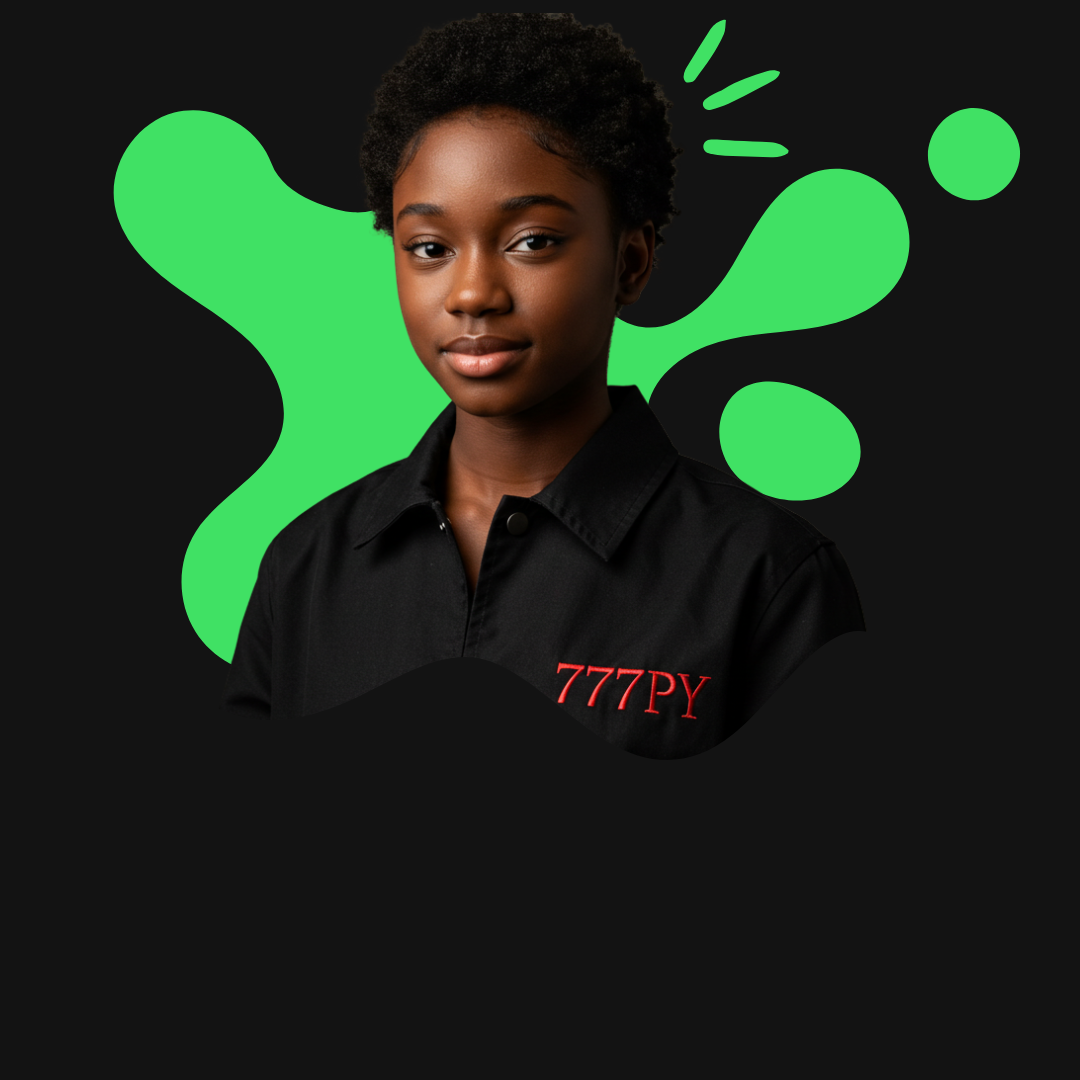
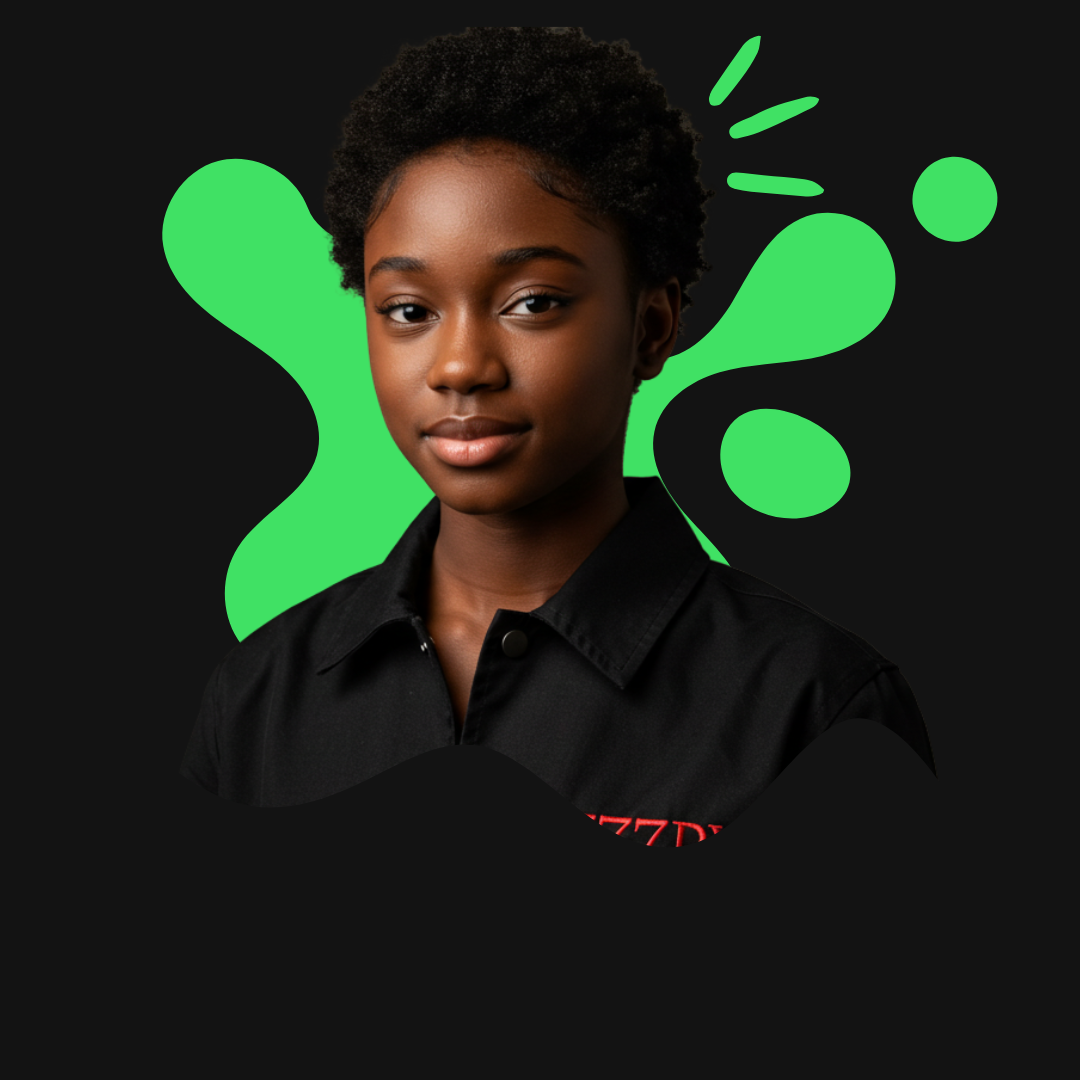
Alteração nas imagens dos fundadores

diff --git a/assets/css/output.css b/assets/css/output.css
@@ -210,8 +210,14 @@
   .right-0 {
     right: calc(var(--spacing) * 0);
   }
+  .left-0 {
+    left: calc(var(--spacing) * 0);
+  }
   .z-1 {
     z-index: 1;
+  }
+  .z-10 {
+    z-index: 10;
   }
   .z-\[2\] {
     z-index: 2;
@@ -227,6 +233,9 @@
   }
   .my-8 {
     margin-block: calc(var(--spacing) * 8);
+  }
+  .mt-2 {
+    margin-top: calc(var(--spacing) * 2);
   }
   .mt-2\.5 {
     margin-top: calc(var(--spacing) * 2.5);
@@ -264,6 +273,9 @@
   .hidden {
     display: none;
   }
+  .table {
+    display: table;
+  }
   .h-16 {
     height: calc(var(--spacing) * 16);
   }
@@ -300,8 +312,14 @@
   .w-screen {
     width: 100vw;
   }
+  .border-collapse {
+    border-collapse: collapse;
+  }
   .rotate-x-180 {
     --tw-rotate-x: rotateX(180deg);
+    transform: var(--tw-rotate-x,) var(--tw-rotate-y,) var(--tw-rotate-z,) var(--tw-skew-x,) var(--tw-skew-y,);
+  }
+  .transform {
     transform: var(--tw-rotate-x,) var(--tw-rotate-y,) var(--tw-rotate-z,) var(--tw-skew-x,) var(--tw-skew-y,);
   }
   .animate-bounce {
@@ -312,6 +330,27 @@
   }
   .resize {
     resize: both;
+  }
+  .snap-y {
+    scroll-snap-type: y var(--tw-scroll-snap-strictness);
+  }
+  .snap-mandatory {
+    --tw-scroll-snap-strictness: mandatory;
+  }
+  .scroll-pt-0 {
+    scroll-padding-top: calc(var(--spacing) * 0);
+  }
+  .scroll-pt-0\.5 {
+    scroll-padding-top: calc(var(--spacing) * 0.5);
+  }
+  .scroll-pt-12 {
+    scroll-padding-top: calc(var(--spacing) * 12);
+  }
+  .scroll-pt-20 {
+    scroll-padding-top: calc(var(--spacing) * 20);
+  }
+  .scroll-pt-24 {
+    scroll-padding-top: calc(var(--spacing) * 24);
   }
   .flex-col {
     flex-direction: column;
@@ -331,14 +370,23 @@
   .justify-center {
     justify-content: center;
   }
+  .gap-0 {
+    gap: calc(var(--spacing) * 0);
+  }
   .gap-0\.5 {
     gap: calc(var(--spacing) * 0.5);
+  }
+  .gap-1 {
+    gap: calc(var(--spacing) * 1);
   }
   .gap-1\.5 {
     gap: calc(var(--spacing) * 1.5);
   }
   .gap-2 {
     gap: calc(var(--spacing) * 2);
+  }
+  .gap-3 {
+    gap: calc(var(--spacing) * 3);
   }
   .gap-3\.5 {
     gap: calc(var(--spacing) * 3.5);
@@ -352,11 +400,24 @@
   .overflow-hidden {
     overflow: hidden;
   }
+  .overflow-x-scroll {
+    overflow-x: scroll;
+  }
+  .overflow-y-auto {
+    overflow-y: auto;
+  }
+  .overflow-y-scroll {
+    overflow-y: scroll;
+  }
   .scroll-smooth {
     scroll-behavior: smooth;
   }
   .rounded-full {
     border-radius: calc(infinity * 1px);
+  }
+  .border {
+    border-style: var(--tw-border-style);
+    border-width: 1px;
   }
   .border-2 {
     border-style: var(--tw-border-style);
@@ -376,6 +437,9 @@
   }
   .bg-black {
     background-color: var(--color-black);
+  }
+  .p-1 {
+    padding: calc(var(--spacing) * 1);
   }
   .p-1\.5 {
     padding: calc(var(--spacing) * 1.5);
@@ -398,6 +462,9 @@
   .py-6 {
     padding-block: calc(var(--spacing) * 6);
   }
+  .pt-1 {
+    padding-top: calc(var(--spacing) * 1);
+  }
   .pt-2 {
     padding-top: calc(var(--spacing) * 2);
   }
@@ -406,6 +473,9 @@
   }
   .pt-9 {
     padding-top: calc(var(--spacing) * 9);
+  }
+  .pt-16 {
+    padding-top: calc(var(--spacing) * 16);
   }
   .pt-24 {
     padding-top: calc(var(--spacing) * 24);
@@ -476,8 +546,19 @@
   .opacity-75 {
     opacity: 75%;
   }
+  .outline {
+    outline-style: var(--tw-outline-style);
+    outline-width: 1px;
+  }
+  .filter {
+    filter: var(--tw-blur,) var(--tw-brightness,) var(--tw-contrast,) var(--tw-grayscale,) var(--tw-hue-rotate,) var(--tw-invert,) var(--tw-saturate,) var(--tw-sepia,) var(--tw-drop-shadow,);
+  }
   .backdrop-blur-sm {
     --tw-backdrop-blur: blur(var(--blur-sm));
+    -webkit-backdrop-filter: var(--tw-backdrop-blur,) var(--tw-backdrop-brightness,) var(--tw-backdrop-contrast,) var(--tw-backdrop-grayscale,) var(--tw-backdrop-hue-rotate,) var(--tw-backdrop-invert,) var(--tw-backdrop-opacity,) var(--tw-backdrop-saturate,) var(--tw-backdrop-sepia,);
+    backdrop-filter: var(--tw-backdrop-blur,) var(--tw-backdrop-brightness,) var(--tw-backdrop-contrast,) var(--tw-backdrop-grayscale,) var(--tw-backdrop-hue-rotate,) var(--tw-backdrop-invert,) var(--tw-backdrop-opacity,) var(--tw-backdrop-saturate,) var(--tw-backdrop-sepia,);
+  }
+  .backdrop-filter {
     -webkit-backdrop-filter: var(--tw-backdrop-blur,) var(--tw-backdrop-brightness,) var(--tw-backdrop-contrast,) var(--tw-backdrop-grayscale,) var(--tw-backdrop-hue-rotate,) var(--tw-backdrop-invert,) var(--tw-backdrop-opacity,) var(--tw-backdrop-saturate,) var(--tw-backdrop-sepia,);
     backdrop-filter: var(--tw-backdrop-blur,) var(--tw-backdrop-brightness,) var(--tw-backdrop-contrast,) var(--tw-backdrop-grayscale,) var(--tw-backdrop-hue-rotate,) var(--tw-backdrop-invert,) var(--tw-backdrop-opacity,) var(--tw-backdrop-saturate,) var(--tw-backdrop-sepia,);
   }
@@ -649,6 +730,11 @@
   .sm\:px-12 {
     @media (width >= 40rem) {
       padding-inline: calc(var(--spacing) * 12);
+    }
+  }
+  .sm\:px-24 {
+    @media (width >= 40rem) {
+      padding-inline: calc(var(--spacing) * 24);
     }
   }
   .sm\:py-8 {
@@ -1648,12 +1734,75 @@ body::-webkit-scrollbar-track {
   syntax: "*";
   inherits: false;
 }
+@property --tw-scroll-snap-strictness {
+  syntax: "*";
+  inherits: false;
+  initial-value: proximity;
+}
 @property --tw-border-style {
   syntax: "*";
   inherits: false;
   initial-value: solid;
 }
 @property --tw-font-weight {
+  syntax: "*";
+  inherits: false;
+}
+@property --tw-outline-style {
+  syntax: "*";
+  inherits: false;
+  initial-value: solid;
+}
+@property --tw-blur {
+  syntax: "*";
+  inherits: false;
+}
+@property --tw-brightness {
+  syntax: "*";
+  inherits: false;
+}
+@property --tw-contrast {
+  syntax: "*";
+  inherits: false;
+}
+@property --tw-grayscale {
+  syntax: "*";
+  inherits: false;
+}
+@property --tw-hue-rotate {
+  syntax: "*";
+  inherits: false;
+}
+@property --tw-invert {
+  syntax: "*";
+  inherits: false;
+}
+@property --tw-opacity {
+  syntax: "*";
+  inherits: false;
+}
+@property --tw-saturate {
+  syntax: "*";
+  inherits: false;
+}
+@property --tw-sepia {
+  syntax: "*";
+  inherits: false;
+}
+@property --tw-drop-shadow {
+  syntax: "*";
+  inherits: false;
+}
+@property --tw-drop-shadow-color {
+  syntax: "*";
+  inherits: false;
+}
+@property --tw-drop-shadow-alpha {
+  syntax: "<percentage>";
+  inherits: false;
+  initial-value: 100%;
+}
+@property --tw-drop-shadow-size {
   syntax: "*";
   inherits: false;
 }
@@ -1771,64 +1920,6 @@ body::-webkit-scrollbar-track {
   syntax: "*";
   inherits: false;
 }
-@property --tw-blur {
-  syntax: "*";
-  inherits: false;
-}
-@property --tw-brightness {
-  syntax: "*";
-  inherits: false;
-}
-@property --tw-contrast {
-  syntax: "*";
-  inherits: false;
-}
-@property --tw-grayscale {
-  syntax: "*";
-  inherits: false;
-}
-@property --tw-hue-rotate {
-  syntax: "*";
-  inherits: false;
-}
-@property --tw-invert {
-  syntax: "*";
-  inherits: false;
-}
-@property --tw-opacity {
-  syntax: "*";
-  inherits: false;
-}
-@property --tw-saturate {
-  syntax: "*";
-  inherits: false;
-}
-@property --tw-sepia {
-  syntax: "*";
-  inherits: false;
-}
-@property --tw-drop-shadow {
-  syntax: "*";
-  inherits: false;
-}
-@property --tw-drop-shadow-color {
-  syntax: "*";
-  inherits: false;
-}
-@property --tw-drop-shadow-alpha {
-  syntax: "<percentage>";
-  inherits: false;
-  initial-value: 100%;
-}
-@property --tw-drop-shadow-size {
-  syntax: "*";
-  inherits: false;
-}
-@property --tw-scroll-snap-strictness {
-  syntax: "*";
-  inherits: false;
-  initial-value: proximity;
-}
 @property --tw-scale-x {
   syntax: "*";
   inherits: false;
@@ -1873,8 +1964,23 @@ body::-webkit-scrollbar-track {
       --tw-rotate-z: initial;
       --tw-skew-x: initial;
       --tw-skew-y: initial;
+      --tw-scroll-snap-strictness: proximity;
       --tw-border-style: solid;
       --tw-font-weight: initial;
+      --tw-outline-style: solid;
+      --tw-blur: initial;
+      --tw-brightness: initial;
+      --tw-contrast: initial;
+      --tw-grayscale: initial;
+      --tw-hue-rotate: initial;
+      --tw-invert: initial;
+      --tw-opacity: initial;
+      --tw-saturate: initial;
+      --tw-sepia: initial;
+      --tw-drop-shadow: initial;
+      --tw-drop-shadow-color: initial;
+      --tw-drop-shadow-alpha: 100%;
+      --tw-drop-shadow-size: initial;
       --tw-backdrop-blur: initial;
       --tw-backdrop-brightness: initial;
       --tw-backdrop-contrast: initial;
@@ -1901,20 +2007,6 @@ body::-webkit-scrollbar-track {
       --tw-ring-offset-shadow: 0 0 #0000;
       --tw-content: "";
       --tw-ease: initial;
-      --tw-blur: initial;
-      --tw-brightness: initial;
-      --tw-contrast: initial;
-      --tw-grayscale: initial;
-      --tw-hue-rotate: initial;
-      --tw-invert: initial;
-      --tw-opacity: initial;
-      --tw-saturate: initial;
-      --tw-sepia: initial;
-      --tw-drop-shadow: initial;
-      --tw-drop-shadow-color: initial;
-      --tw-drop-shadow-alpha: 100%;
-      --tw-drop-shadow-size: initial;
-      --tw-scroll-snap-strictness: proximity;
       --tw-scale-x: 1;
       --tw-scale-y: 1;
       --tw-scale-z: 1;

diff --git a/index.html b/index.html
@@ -339,7 +339,7 @@
                         <div class="efeito_card_fundador"></div>
                         <div class="efeito_card_fundador"></div>
                     </div>
-                    <img src="assets/img/nalita2.png" alt="imagem da Nalita Kiambi Rodrigues" srcset="" class="imagem_fundador">
+                    <img src="assets/img/nalita.png" alt="imagem da Nalita Kiambi Rodrigues" srcset="" class="imagem_fundador">
                     <h5 class="nome_fundador">Nalita Kiambi Rodrigues</h6>
                     <h6 class="cargo_fundador">Diretora Financeira (CFO), Co-Diretora de Recursos Humanos (Co-CHRO), Co-Diretora de Marketing (Co-CMO) e Co-fundadora</h6>
                     <p class="frase_fundador">Acredito que com o 777, com esse movimento podemos inspirar mais mulheres angolanas a se apaixonarem por números, códigos e pelo poder da ciência</p>
